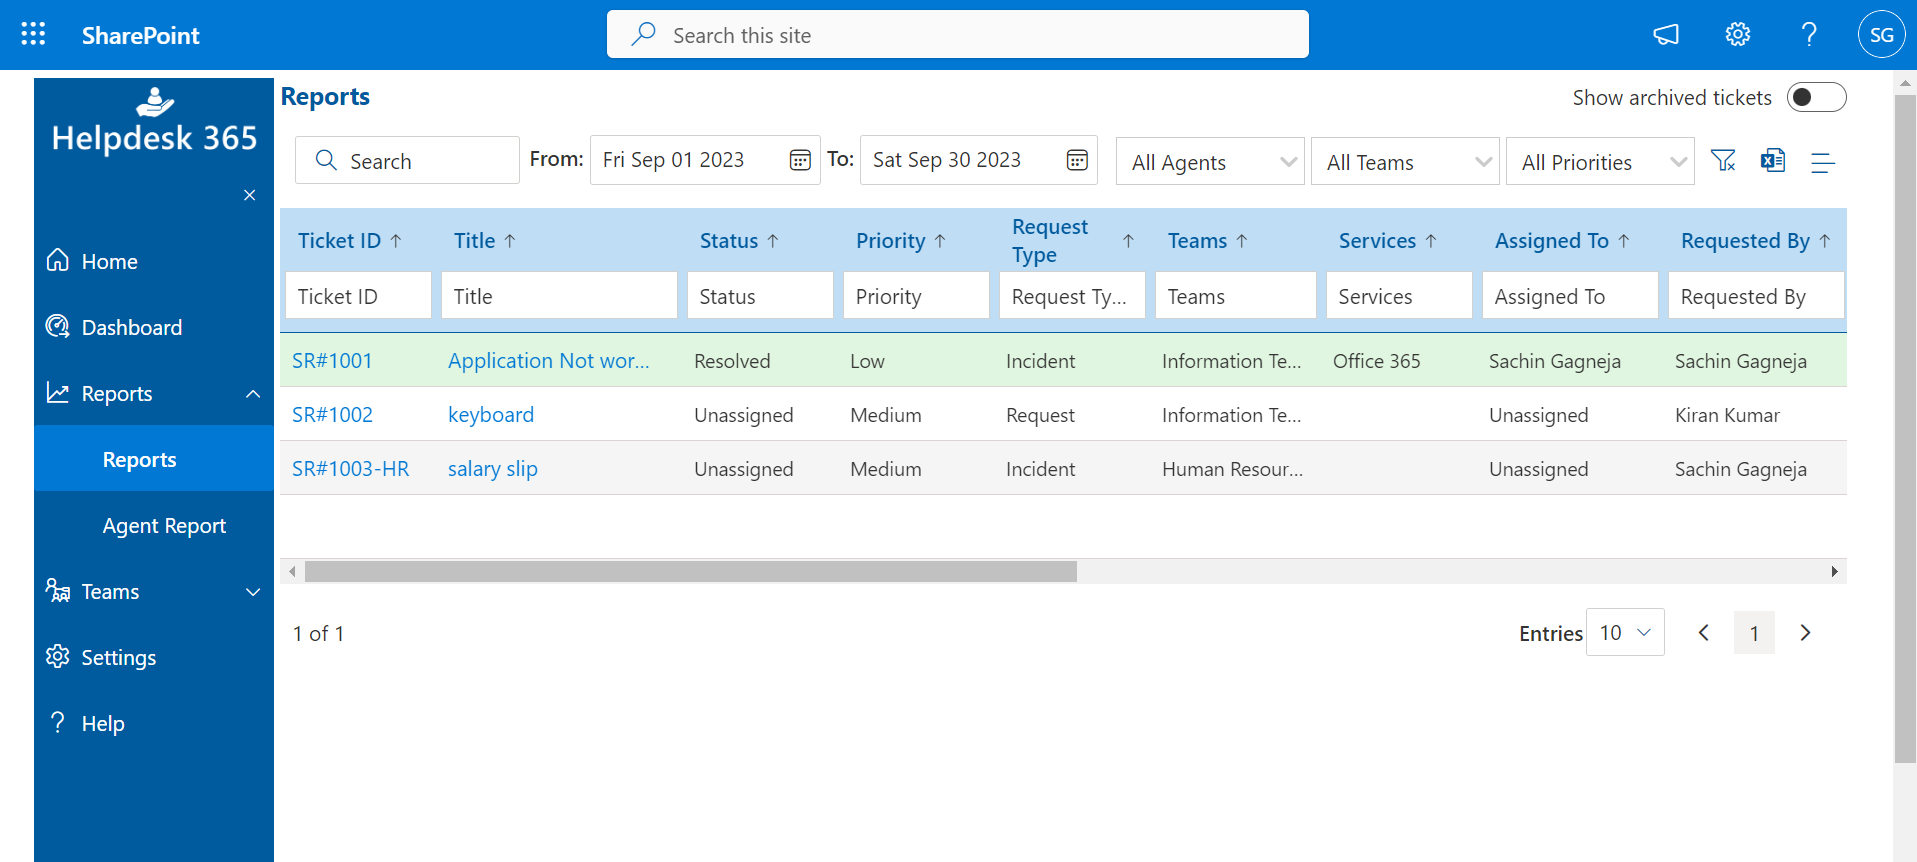
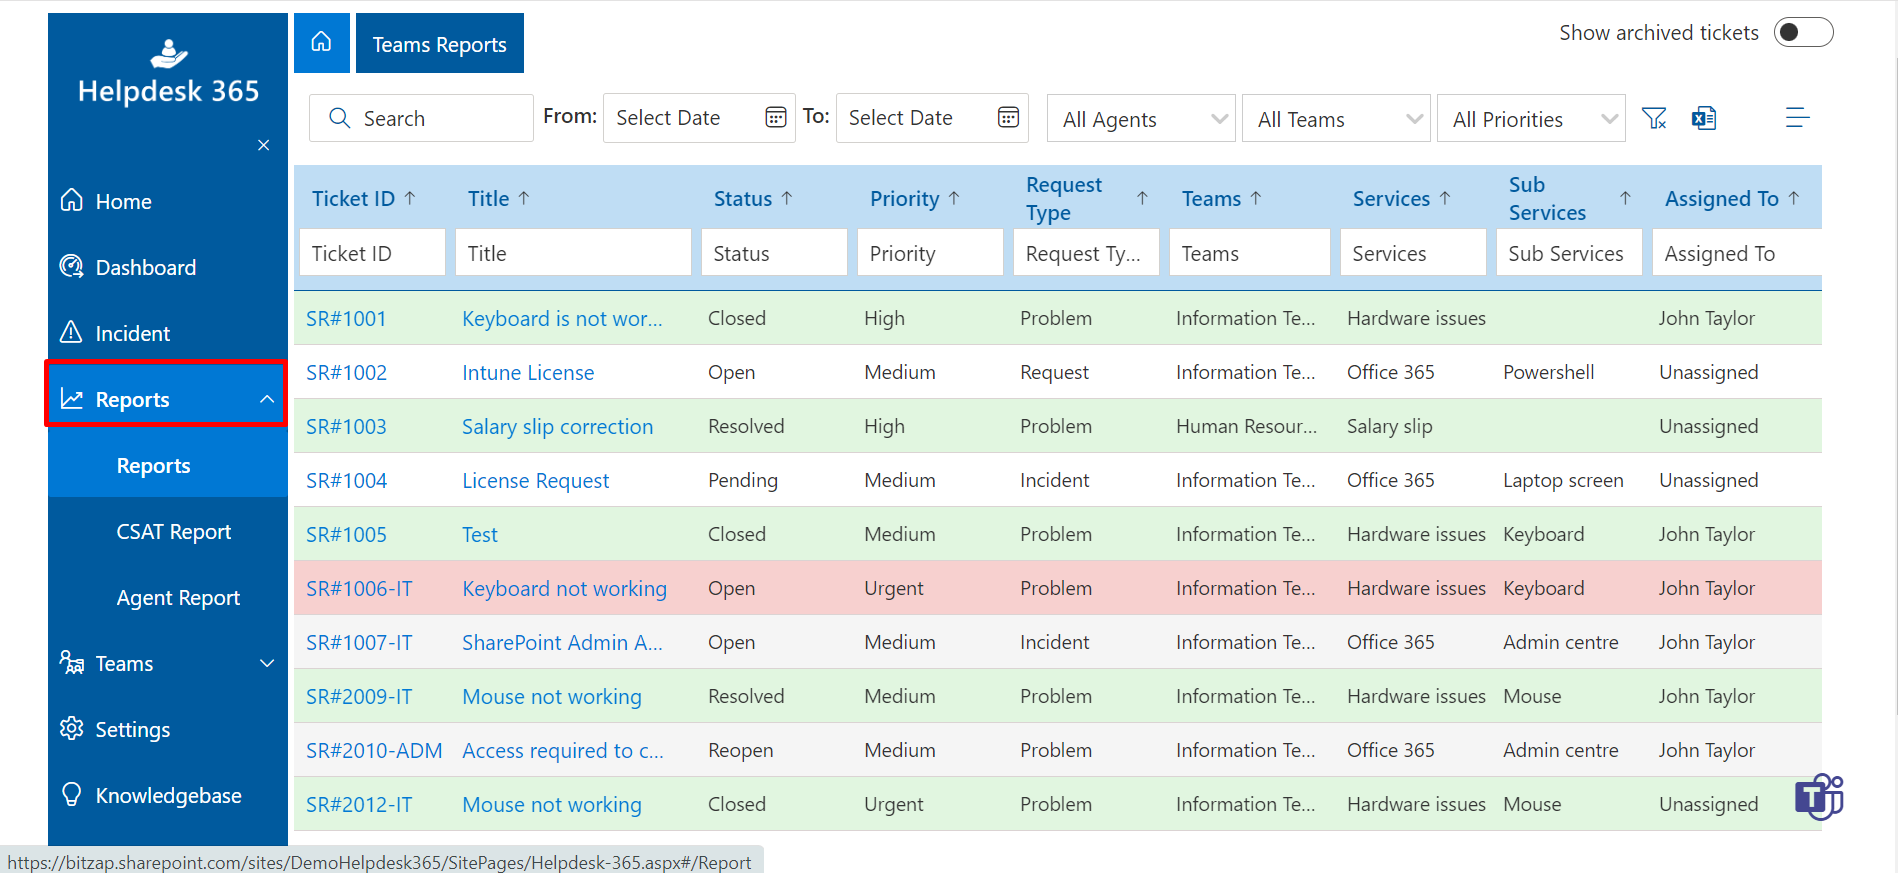
helpdesk

diff --git a/sharepoint-helpdesk/modern/admin/reports/index.html b/sharepoint-helpdesk/modern/admin/reports/index.html
@@ -125,10 +125,15 @@
 
 
                                     <div><img src="agent_report.png" onclick="openModal('agent_report.png')" alt="Agent report"
-                                            width="100%" height="auto"></div>
+                                            width="100%" height="auto"></div> <br>
 
 
-
+                                            <b>
+                                                <h4>CSAT Report</h4>
+                                            </b> <br>
+                                            <p>In the CSAT report, individual survey responses represent the feedback provided in response to survey questions. The CSAT (Customer Satisfaction Score) measures customer satisfaction by asking customers to rate their experience on a scale, indicating their level of satisfaction with a product, service, or experience.</p> <br>
+                                            <div><img src="CSAT_report.png" onclick="openModal('CSAT_report.png')" alt="CSAT report"
+                                                width="100%" height="auto"></div>
                                 </ul>
 
 
